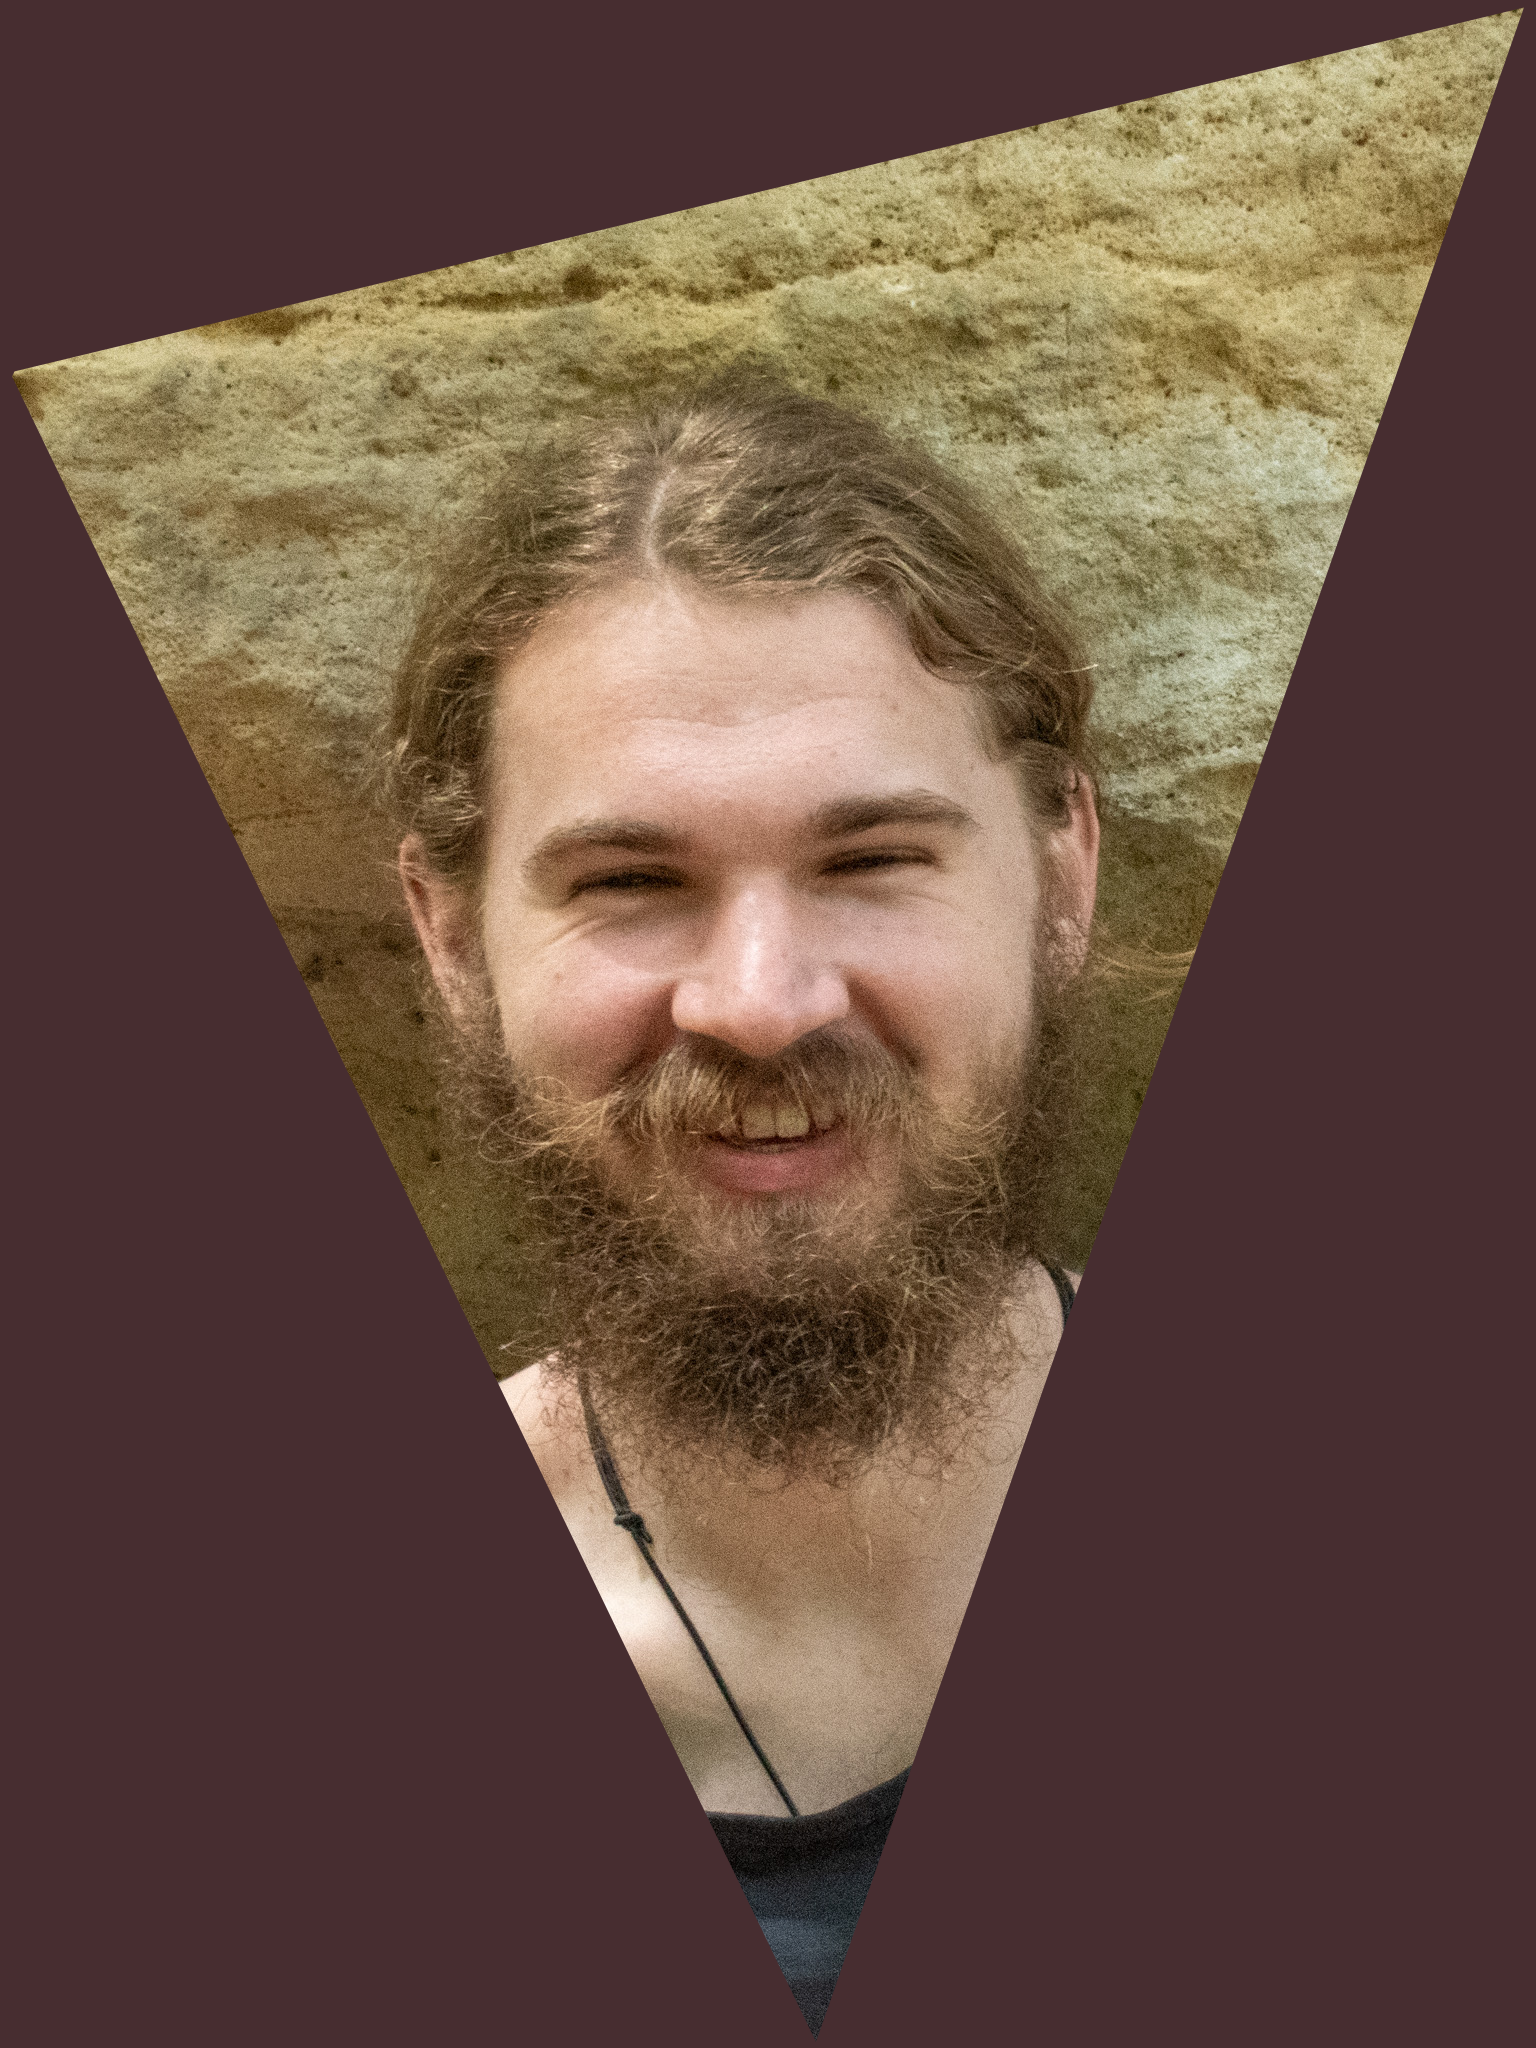
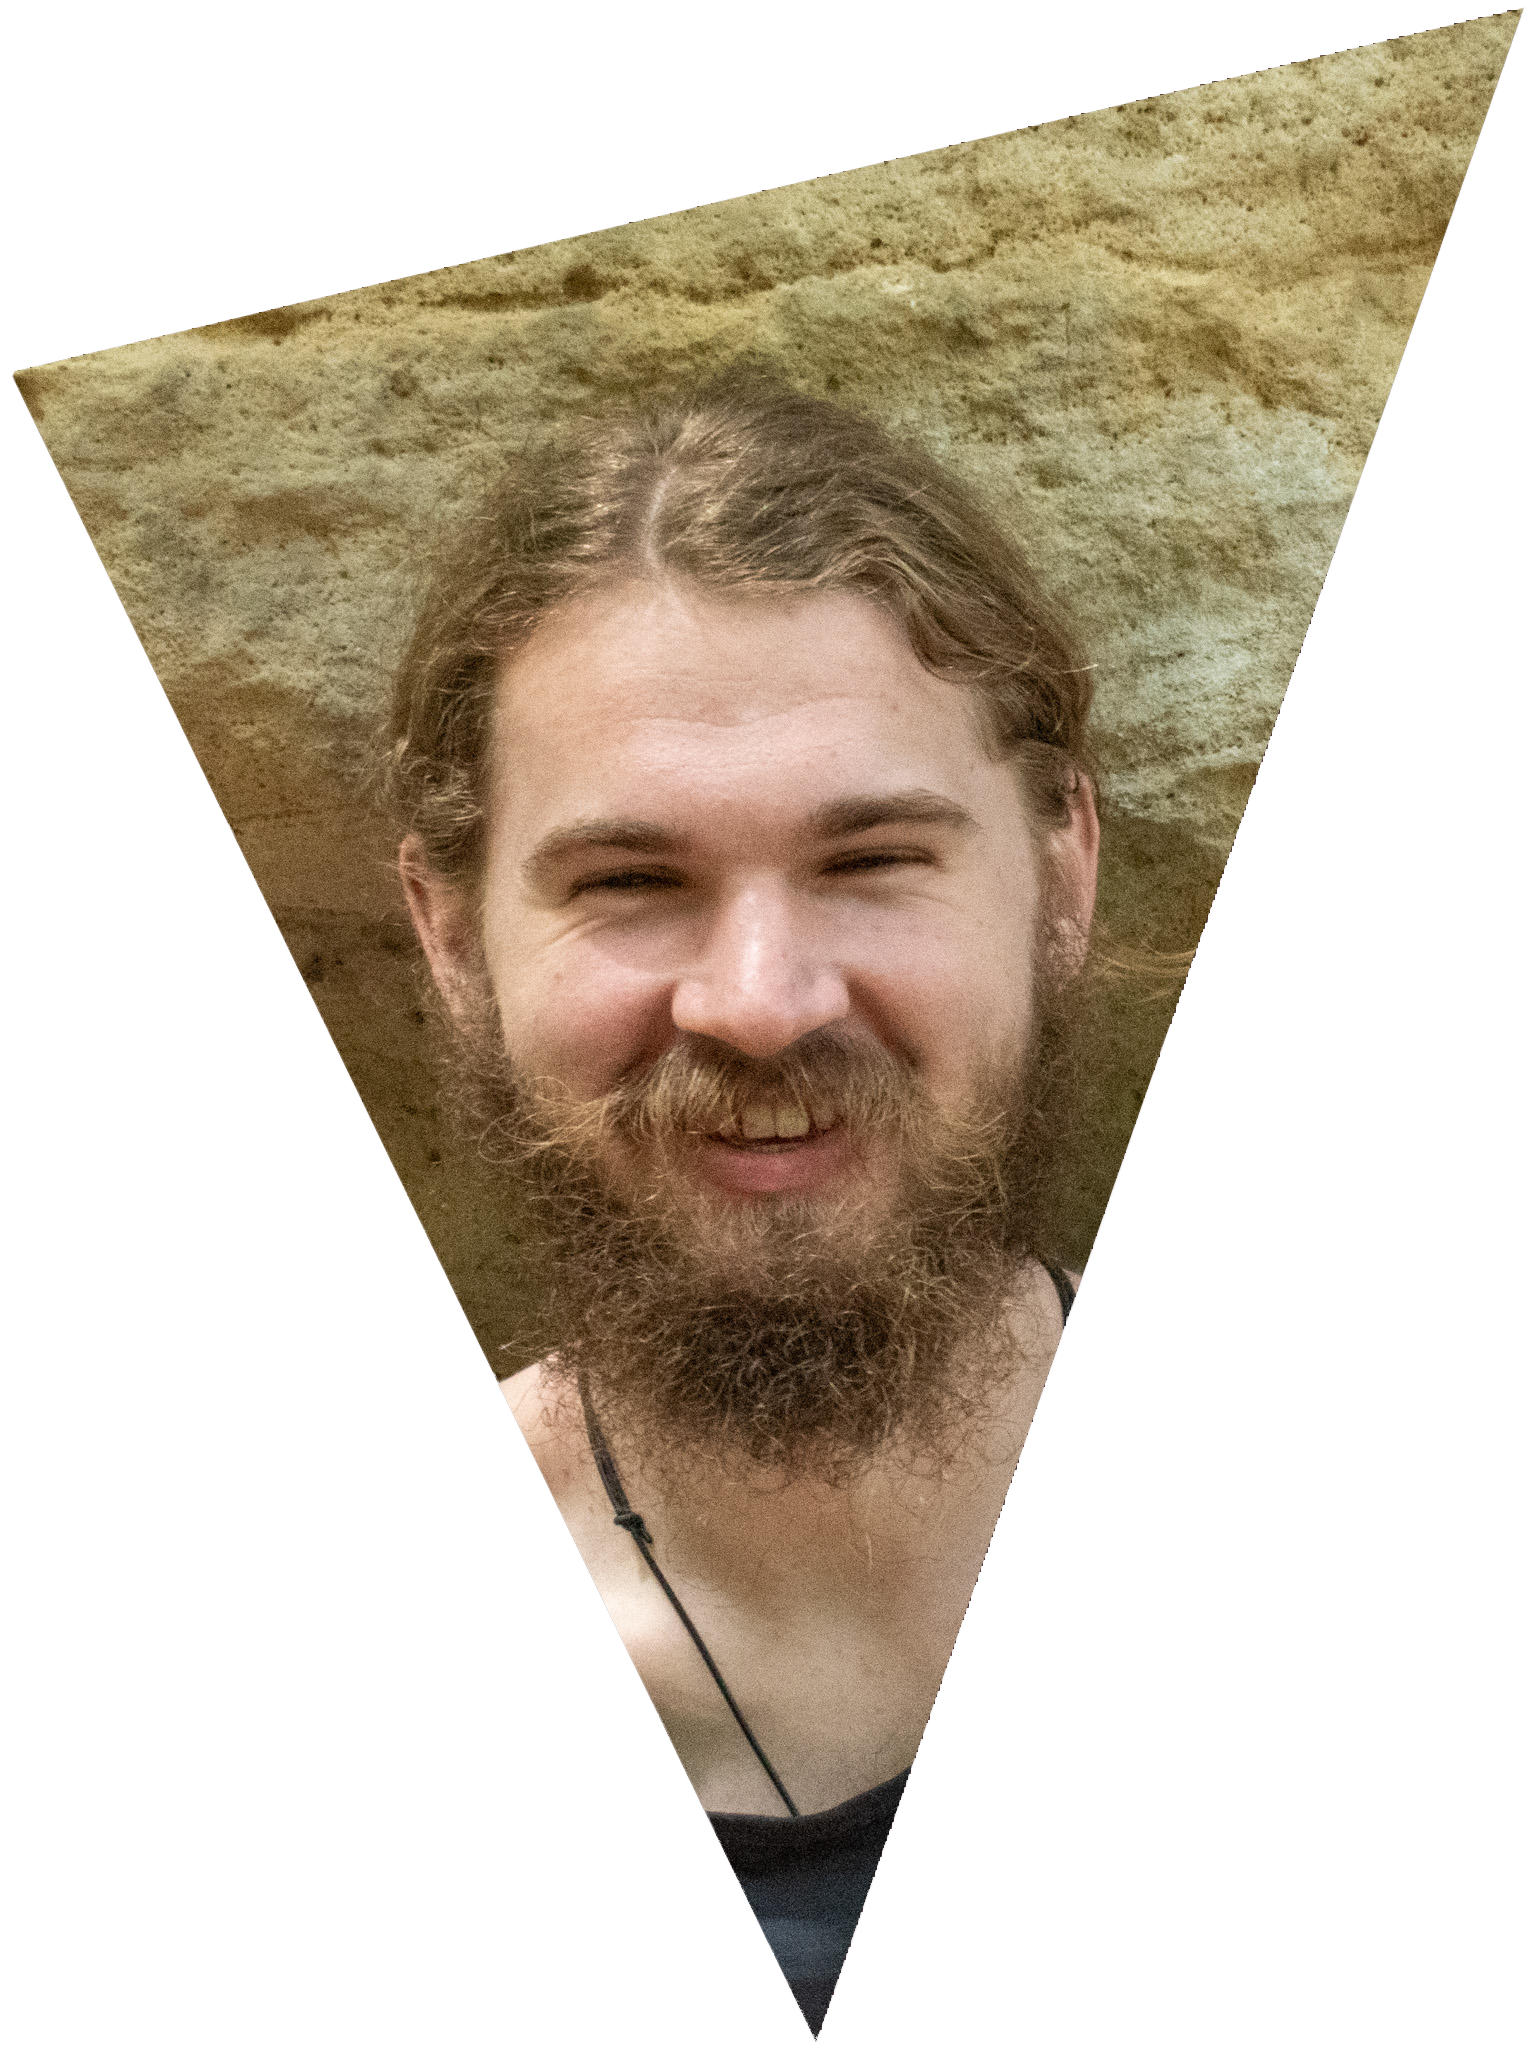
updated content

diff --git a/index2.html b/index2.html
@@ -69,8 +69,8 @@
             <div id = "landing-content-container">
                 <!-- Headshots -->
                 <div id = "headshot-container">
-                    <img class = "themed" id = "headshot" src = images2/dark/picture1.png alt = "headshot">
-                    <img class = "themed" id = "headshot2" src = images2/dark/picture2.png alt = "headshot">
+                    <img id = "headshot" src = images2/picture1.png alt = "headshot">
+                    <img id = "headshot2" src = images2/picture2.png alt = "headshot">
                 </div>
 
                 <!-- Title -->
@@ -87,7 +87,7 @@
         <section id = "introduction-container">
             <!-- Text paragraph -->
             <article id = "introduction">
-                Hejsan! I'm Roemer (<a id = "ipa" href = "http://ipa-reader.xyz/?text=rum%C9%99r&voice=Lotte" rel = "noopener" target = "_blank">['rumər]</a>) 
+                Hejsan! I'm Roemer (<a id = "ipa" href = "http://ipa-reader.xyz/?text=rum%C9%99r&voice=Ruben" rel = "noopener" target = "_blank">['rumər]</a>) 
                 and I am currently working as a PhD candidate at the Department of Clinical Epidemiology
                 at the Leiden University Medical Center (LUMC) in Leiden, the Netherlands. I am writing my thesis on prediction modelling
                 of patient-reported outcome measures in kidney disease, with a special interest in prediction methodology. Besides working 
@@ -200,6 +200,10 @@
 
                     <div id = "publications">
                         <div id = "publication-list">
+                            <button class = "publication-button" name = "milders-2023-jasn">
+                                Prognostic models in nephrology: where do we stand and where do we go from here? Mapping out the evidence in a scoping review 
+                            </button>
+
                             <button class = "publication-button" name = "janse-2023-ajkd">
                                 Predicting kidney failure with the Kidney Failure Risk Equation: time to rethink probabilities
                             </button>
@@ -221,7 +225,7 @@
                             </button>
 
                             <button class = "publication-button" name = "wijk-2022-mt">
-                                Response to: 'Twelve tips for introducing very short answer questions (VSAQs) into your medical curriculum'
+                                Response to: 'Twelve tips for introducing VSAQs'
                             </button>
 
                             <button class = "publication-button" name = "janse-2022-ejhf">
@@ -246,6 +250,38 @@
                         </div>
 
                         <div id = "publication-information">
+
+                            <div class = "publication" id = "milders-2023-jasn">
+                                <div class = "pub-header" > 
+                                    <h2> Prognostic models in nephrology: where do we stand and where do we go from here? Mapping out the evidence in a scoping review </h2>
+                                </div>
+                                <div class = "pub-subheader">
+                                    Milders J, Ramspek CL,  <span class = "author">Janse RJ</span>, Bos WJW, Rotmans JI, Dekker FW, van Diepen M<br>
+                                </div>
+                                <div class = "pub-main" > 
+                                    <p> <b> Background: </b> Prognostic models can strongly support individualized care provision and well-informed shared decision-making. There has been an upsurge 
+                                        of prognostic research in the field of nephrology, but the uptake of prognostic models in clinical practice remains limited. Therefore, we map out the research 
+                                        field of prognostic models for kidney patients and provide directions how to proceed from here. <br>
+                                        <b> Methods: </b> We performed a scoping review of studies developing, validating or updating a prognostic model for patients with chronic kidney disease (CKD). 
+                                        We searched all published models in PubMed and Embase and report predicted outcomes, methodological quality and validation and/or updating efforts. <br>
+                                        <b> Results: </b> We found 602 studies, of which 30.1% concerned CKD populations, 31.6% dialysis populations and 38.4% kidney transplantation populations. The 
+                                        most frequently predicted outcomes were mortality (n=129), kidney disease progression (n=75) and kidney graft survival (n=54). Most studies provided discrimination 
+                                        measures (80.4%), but much less showed calibration results (43.4%). Of the 415 development studies, 28.0% did not perform any validation and 57.6% only internal 
+                                        validation. Moreover, only 111 models (26.7%) were externally validated either in the development study itself or in an independent external validation study. 
+                                        Finally, in 45.8% of development studies no usable version of the model was reported. <br>
+                                        <b> Discussion: </b> To conclude, many prognostic models have been developed for CKD patients, mainly for outcomes related to kidney disease progression and 
+                                        patient/graft survival. To bridge the gap between prediction research and kidney patient care, patient-reported outcomes, methodological rigor, complete 
+                                        reporting of prognostic models, external validation, updating and impact assessment urgently need more attention. 
+                                    </p>
+                                </div>
+                                <div class = "pub-footer" > 
+                                    <i> Journal of the American Society of Nephrology - 12 December 2023 </i>
+                                    <div class = "pub-buttons" >
+                                        <a target = "_blank" href = "https://doi.org/10.1681/asn.0000000000000285" rel = "noopener"> Full-text </a>
+                                        <a target = "_blank" href = "https://pubmed.ncbi.nlm.nih.gov/38082484/" rel = "noopener"> PubMed </a>
+                                    </div>
+                                </div>
+                            </div>
 
                             <div class = "publication" id = "janse-2023-ajkd">
                                 <div class = "pub-header" > 

diff --git a/styles/index_dark.css b/styles/index_dark.css
@@ -354,7 +354,7 @@ span.important {
     background-color: #472D30;
     background-position: 0%;
     background-size: 200% 100%;
-    background-image: linear-gradient(to right, #472D30, #472D30 50%, #723D46 50%);
+    background-image: linear-gradient(to right, #472D30, #723D46 50%, #723D46 50%);
     transition: background-position 1s;
 
 }
